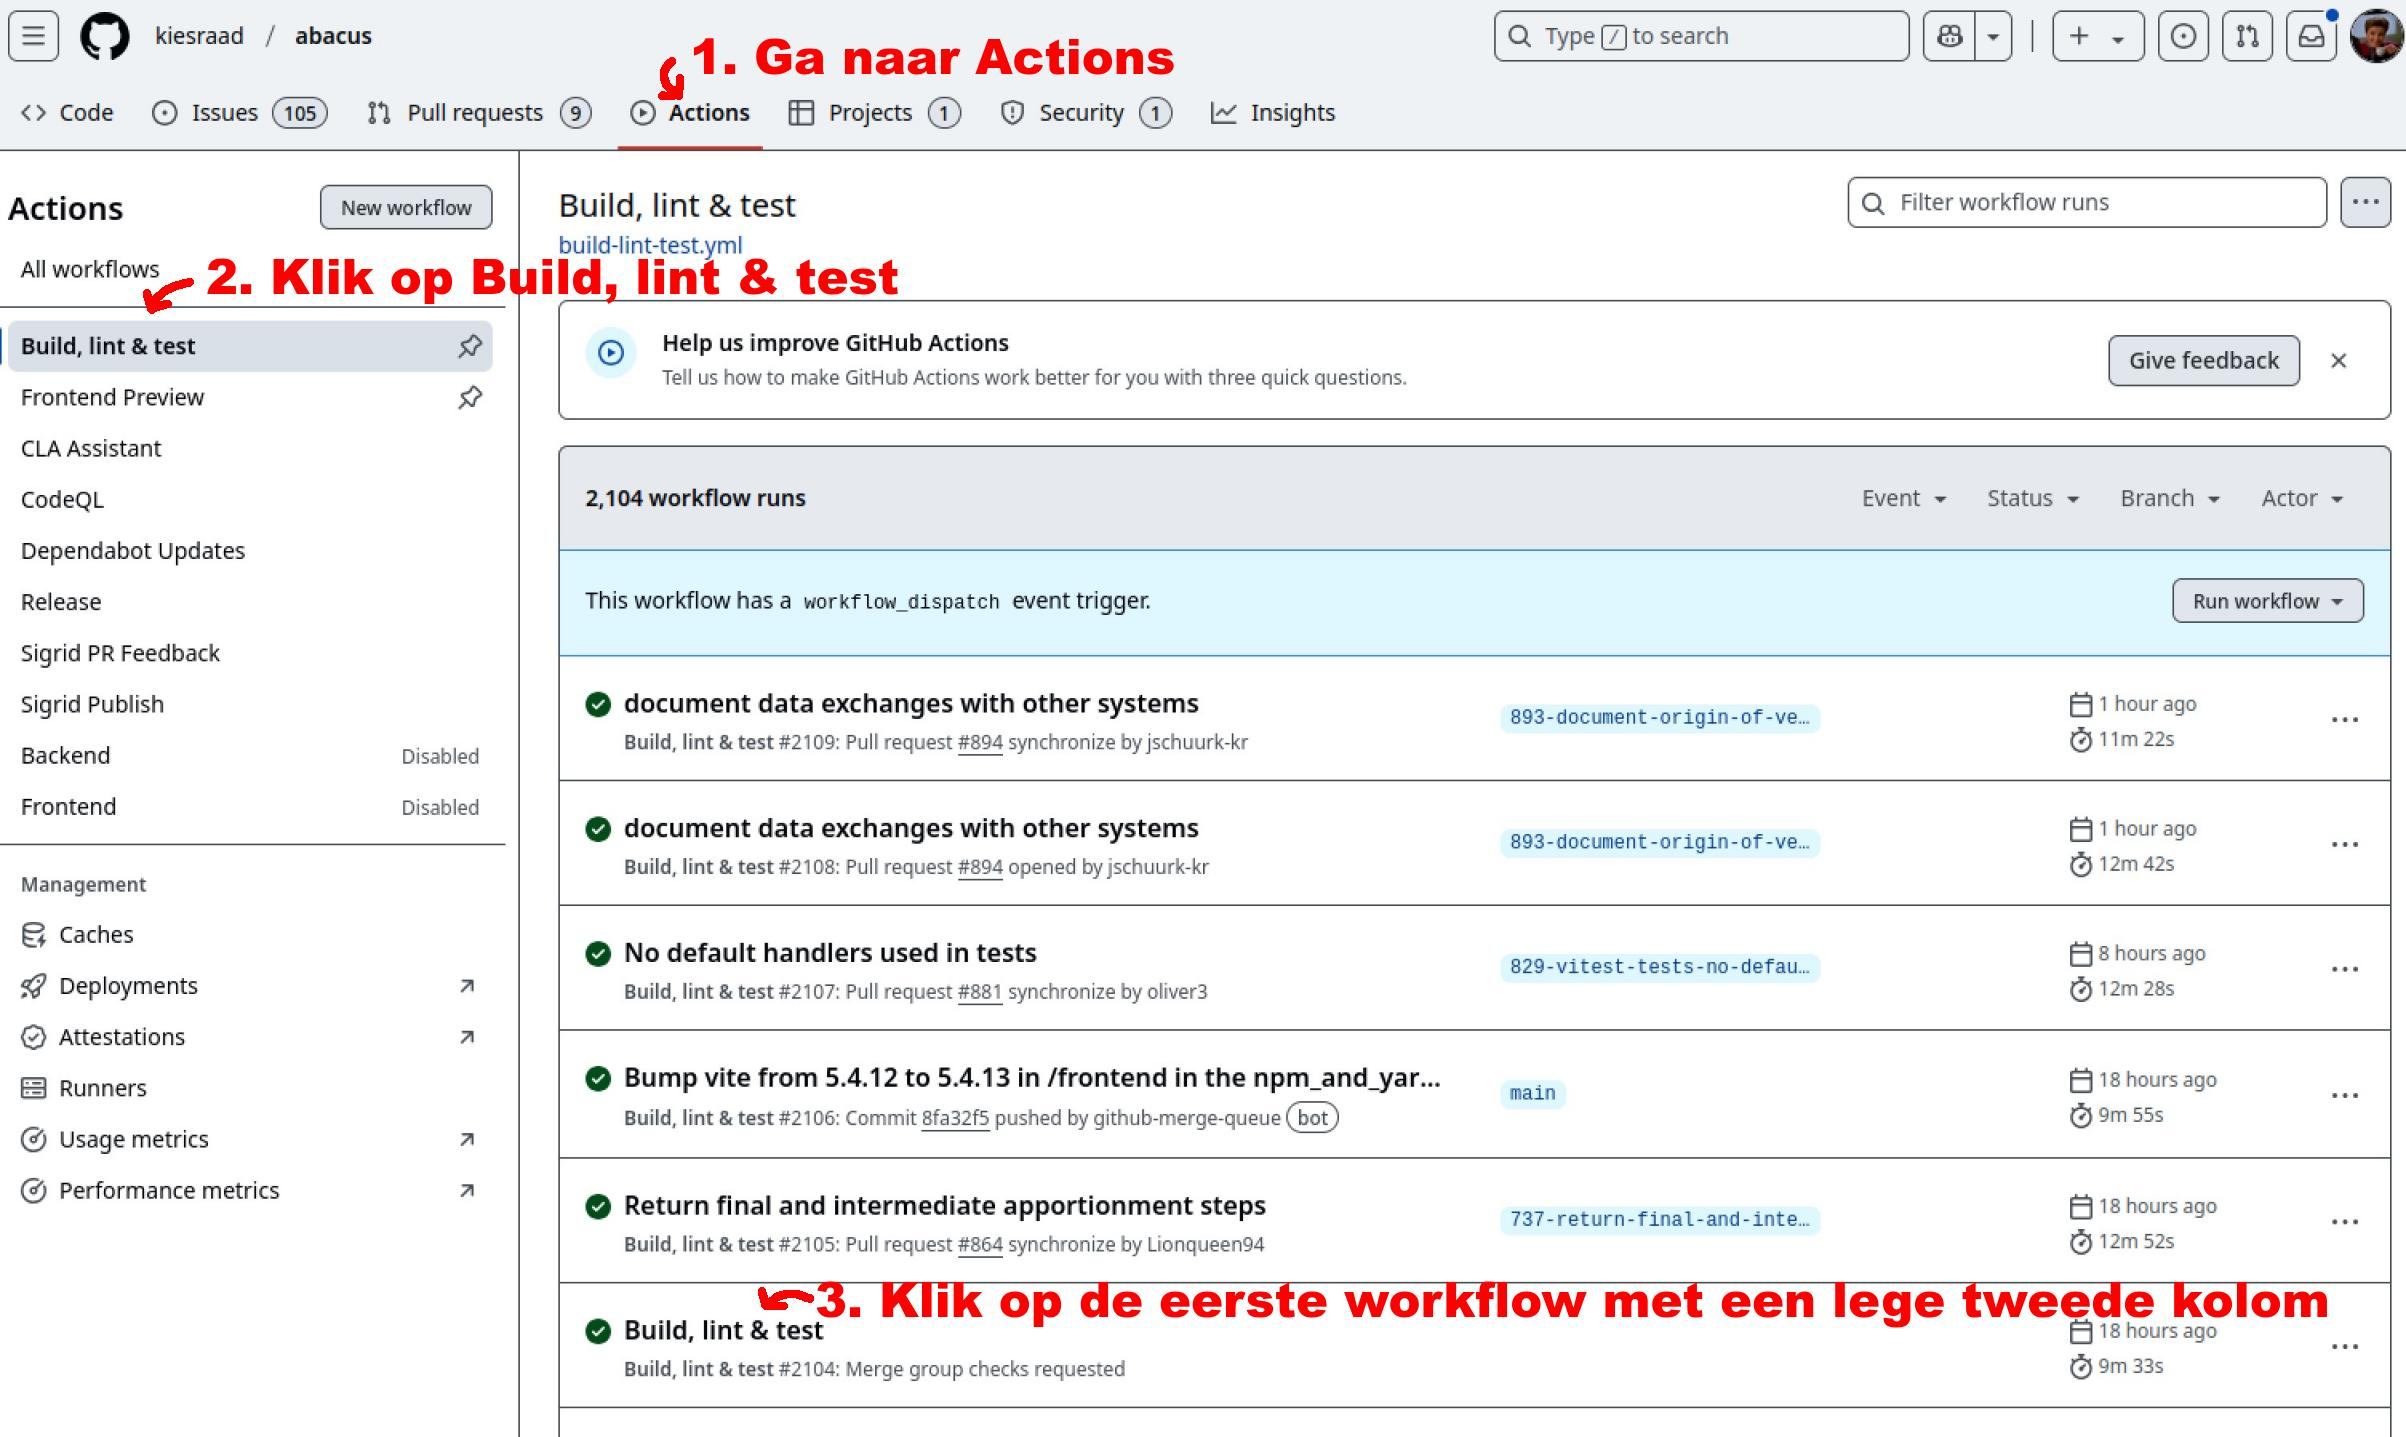
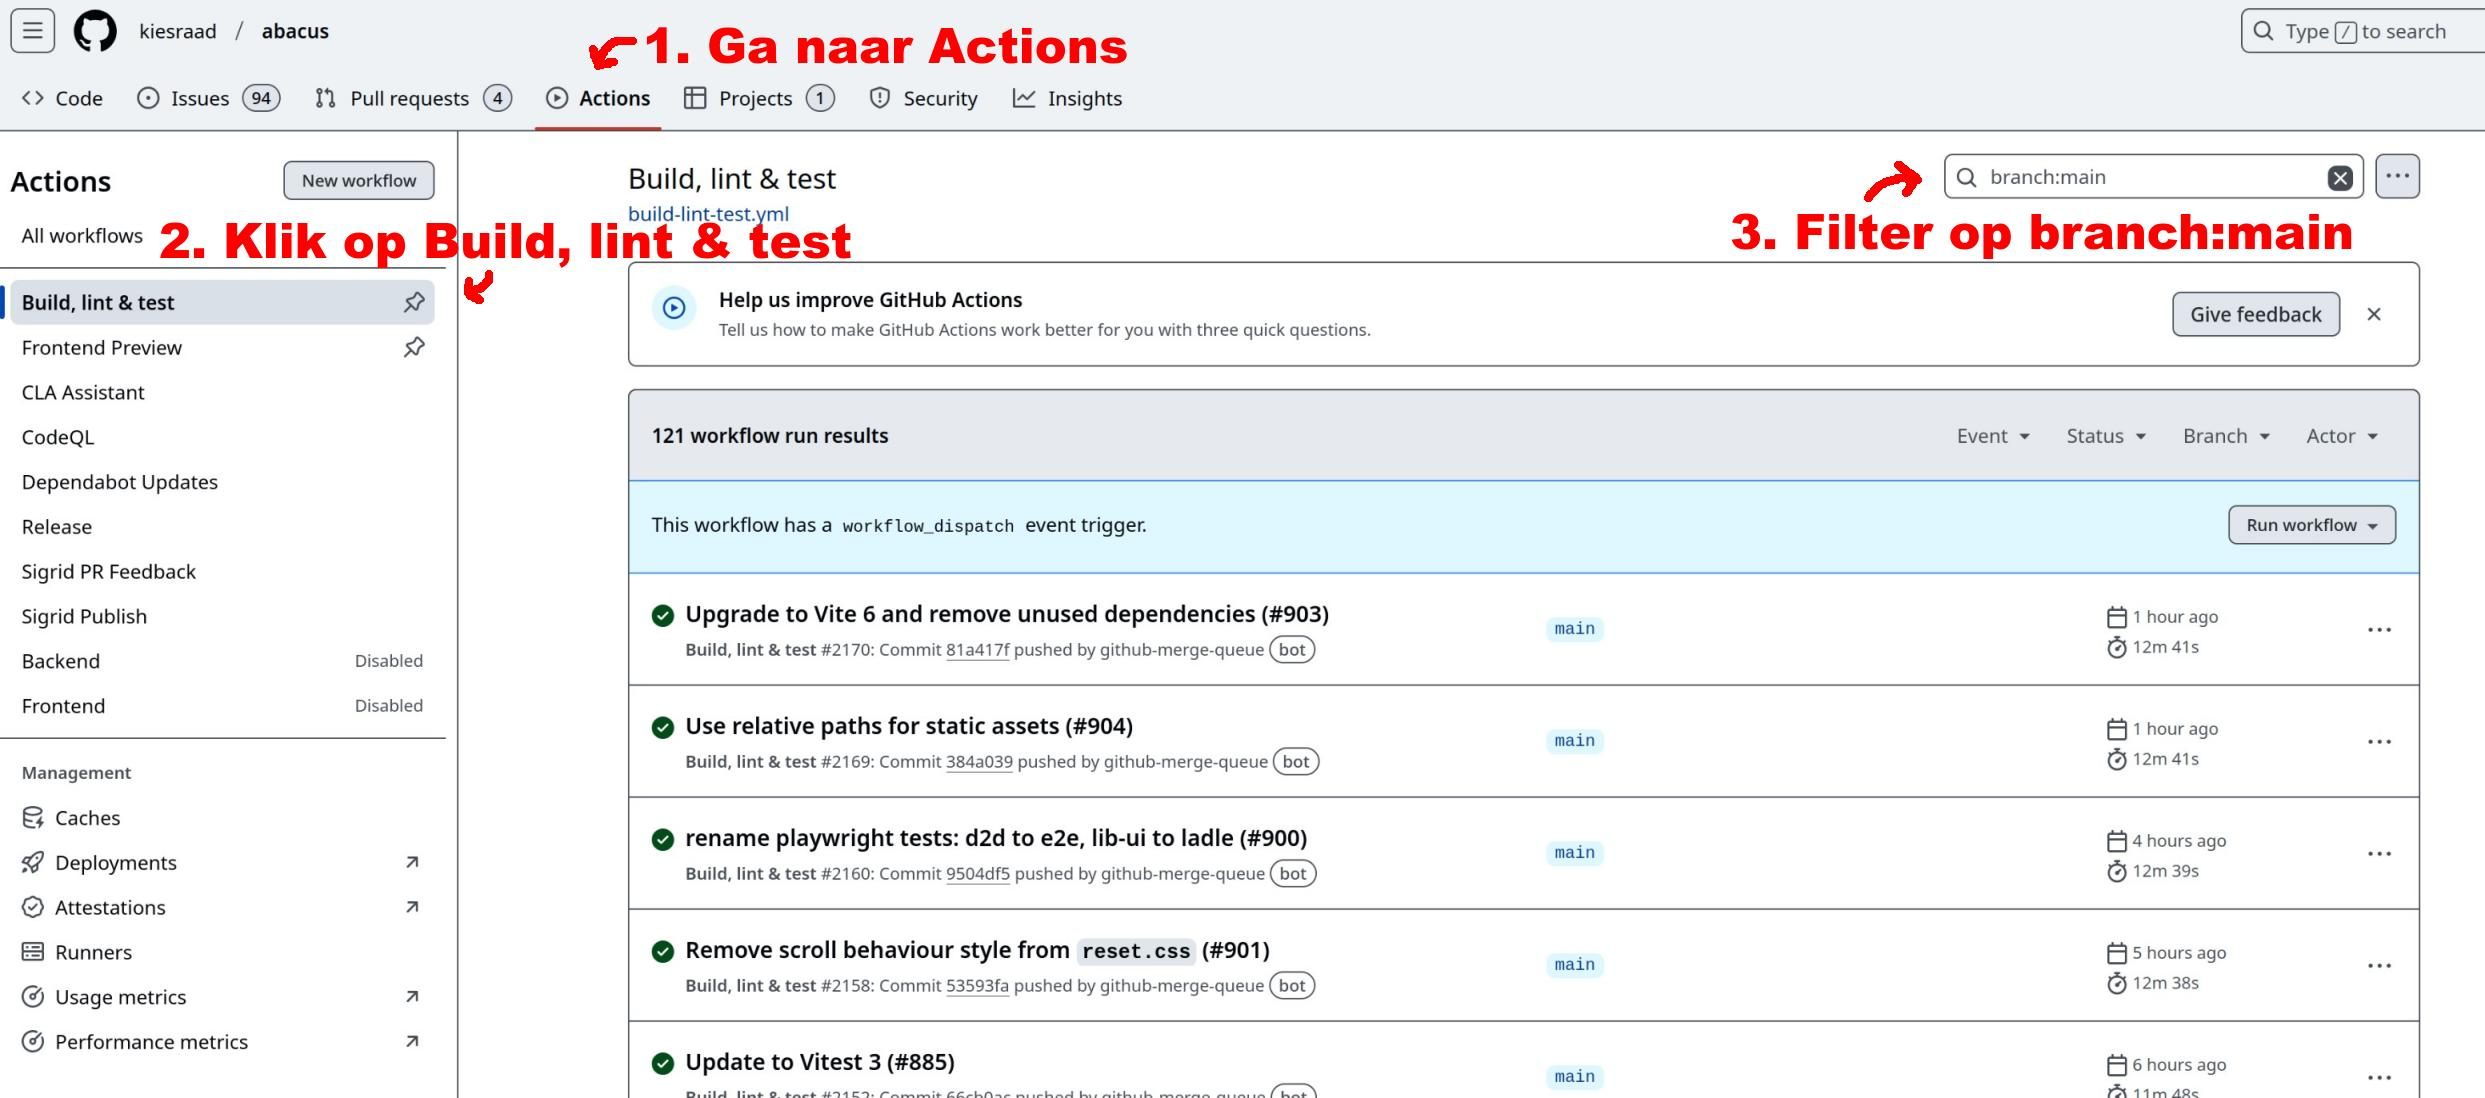
Wijzigingen nav comments
- Uitproberen: 'wekelijkse release-builds' toegevoegd
- Methode 3: Abacus ipv productiebuild
- Instructies branch:main gewijzigd
- Plaatje aangepast
- Opmerking 'starten zonder argumenten' verplaatst

diff --git a/documentatie/gebruikersdocumentatie/installeren-en-starten.md b/documentatie/gebruikersdocumentatie/installeren-en-starten.md
@@ -1,13 +1,13 @@
 # Abacus uitproberen, installeren en starten
 
-Het uitproberen, installeren en starten van Abacus kan op verschillende manieren. Is Abacus nieuw voor je, begin dan bij de optie 'Uitproberen'. Kom je er met de onderstaande instructies niet uit, neem dan contact op met het team via abacus@kiesraad.nl. 
+Het uitproberen, installeren en starten van Abacus kan op verschillende manieren. Is Abacus nieuw voor je, begin dan bij de optie 'Uitproberen'. Kom je er met de onderstaande instructies niet uit, neem dan contact op met het team via <abacus@kiesraad.nl>.
 Hieronder vind je instructies voor de verschillende methodes.
 
 ## Uitproberen
 
 Als je Abacus wilt uitproberen of testen zonder het te installeren, kun je dit doen op <https://abacus-test.nl/>. Hier heb je de volgende opties:
 
-- Maak een nieuwe omgeving aan door bovenaan op `Create new` te klikken.
+- Maak een nieuwe omgeving aan door bovenaan op `Create new` te klikken. Deze omgeving is gebaseerd op onze wekelijkse release-builds.
 - Als je wilt testen hoe de omgeving werkt na de implementatie van een specifieke pull request, klik dan op `Create new` bij de relevante regel onder **Pull requests**.
 - Zoek je naar een bepaalde pull request maar staat die er niet bij, klik dan op `Sync pull requests`. De lijst wordt dan vernieuwd.
 - Bestaande omgevingen staan onder **Running services**. Kies hier een omgeving die al is aangemaakt. Als het nodig is kun je hier een zelf aangemaakte omgeving stoppen.
@@ -29,19 +29,21 @@ Op de hoofdpagina van de Abacus-repository klik je aan de rechterkant op [Releas
 Open een terminal en maak het bestand uitvoerbaar:
 
 ```sh
-chmod +x /path/to/binary/abacus-OS-version
+chmod +x /path/to/binary/abacus-[OS-version]
 ```
 
 Voer Abacus uit:
 
 ```sh
-./path/to/binary/abacus-OS-version --reset-database --seed-data
+./path/to/binary/abacus-[OS-version] --reset-database --seed-data
 ```
 
-De argumenten zorgen ervoor dat de database wordt gereset en wordt geladen met fixtures. De kortere versie van deze opdracht is:
+De argumenten zorgen ervoor dat de database wordt gereset en wordt geladen met fixtures. Het is natuurlijk ook mogelijk om Abacus zonder argumenten te starten, maar als je dat doet bevat de app geen data en zie je op de pagina het bericht *'Verkiezingen niet gevonden'*.
+
+De kortere versie van deze opdracht is:
 
 ```sh
-./path/to/binary/abacus-OS-version -rs
+./path/to/binary/abacus-[OS-version] -rs
 ```
 
 Zie ook de [help](#help).
@@ -51,21 +53,19 @@ Zie ook de [help](#help).
 Open een Command Prompt of Powershell en voer Abacus uit:
 
 ```sh
-start path\to\binary\abacus-windows-version.exe --reset-database --seed-data
+start path\to\binary\abacus-windows-[version].exe --reset-database --seed-data
 ```
 
 Of gebruik de kortere versie van deze opdracht:
 
 ```sh
-start path\to\binary\abacus-windows-version.exe -rs
+start path\to\binary\abacus-windows-[version].exe -rs
 
 ```
 
 Zie ook de [help](#help).
 
 Na het starten zie je een popup van Windows Security over de Windows Firewall. Het maakt niet uit wat je hier selecteert, de omgeving werkt altijd. Klik dus gerust op **Cancel (Annuleren)**.
-
-**Let op:** Het is natuurlijk ook mogelijk om Abacus zonder argumenten te starten, maar als je dat doet bevat de app geen data en zie je op de pagina het bericht *'Verkiezingen niet gevonden'*.
 
 Wanneer Abacus draait, ga je in je browser naar <http://127.0.0.1:8080> om de omgeving te gebruiken.
 
@@ -75,7 +75,7 @@ Je kunt ook zelf een bepaalde build downloaden en starten. Voer hiervoor de volg
 
 1. Ga in de Abacus-repository naar [Actions](https://github.com/kiesraad/abacus/actions).
 2. Klik aan de linkerkant op [Build, lint & test](https://github.com/kiesraad/abacus/actions/workflows/build-lint-test.yml).
-3. Klik op de eerste workflow waarbij de tweede kolom leeg is.
+3. Filter op `branch:main` en klik op de bovenste build in de lijst.
 4. Download de **latest** build voor jouw besturingssysteem. Let op: de download is alleen zichtbaar als je bent ingelogd in GitHub.
 
 ![instructies1](/documentatie/gebruikersdocumentatie/img/build-artifact-1.jpg)
@@ -89,7 +89,9 @@ De download bevat een ZIP-bestand met de binary. Deze binary bevat ook alle fron
 ./path/to/binary/abacus --reset-database --seed-data
 ```
 
-De argumenten zorgen ervoor dat de database wordt gereset en wordt geladen met fixtures. De kortere versie van deze opdracht is:
+De argumenten zorgen ervoor dat de database wordt gereset en wordt geladen met fixtures. Het is natuurlijk ook mogelijk om Abacus zonder argumenten te starten, maar als je dat doet bevat de app geen data en zie je op de pagina het bericht *'Verkiezingen niet gevonden'*.
+
+De kortere versie van deze opdracht is:
 
 ```sh
 ./path/to/binary/abacus -rs
@@ -108,11 +110,10 @@ Of gebruik de kortere versie:
 ```sh
 start path\to\binary\abacus.exe -rs
 ```
+
 Zie ook de [help](#help).
 
 Na het starten zie je een popup van Windows Security over de Windows Firewall. Het maakt niet uit wat je hier selecteert, de omgeving werkt altijd. Klik dus gerust op **Cancel (Annuleren)**.
-
-Het is natuurlijk ook mogelijk om Abacus zonder argumenten te starten, maar als je dat doet bevat de app geen data en zie je op de pagina het bericht *'Verkiezingen niet gevonden'*.
 
 Wanneer Abacus draait, ga je in je browser naar <http://127.0.0.1:8080> om de omgeving te gebruiken.
 
@@ -120,7 +121,7 @@ Wanneer Abacus draait, ga je in je browser naar <http://127.0.0.1:8080> om de om
 
 *Let op: voor deze methode moet je de repository klonen of downloaden.*
 
-Dit is een Bash-script dat is bedoeld om snel een productiebuild te bouwen en starten. Het staat in de hoofdmap van de repository. Het script maakt geen gebruik van Docker, waardoor het wel nodig is om `npm` en `cargo` geïnstalleerd te hebben.
+Dit is een Bash-script dat is bedoeld om snel Abacus te bouwen en starten. Het staat in de hoofdmap van de repository. Het script maakt geen gebruik van Docker, waardoor het wel nodig is om `npm` en `cargo` geïnstalleerd te hebben.
 
 - `npm` is onderdeel van Node.js en dit kun je installeren door de instructies te volgen op de [website van Node.js](https://nodejs.org/en/download/package-manager).
 - `cargo` is onderdeel van Rust en installatie-instructies hiervoor vind je op de [website van Rust](https://www.rust-lang.org/learn/get-started).
@@ -136,7 +137,7 @@ Zo start je de huidige branch:
 En zo start je een specifieke branch:
 
 ```sh
-./pull-and-run name-of-branch
+./pull-and-run [name-of-branch]
 ```
 
 Wanneer Abacus draait, ga je in je browser naar (<http://127.0.0.1:8080>) om de omgeving te gebruiken.
@@ -169,11 +170,11 @@ Ook deze optie is bedoeld voor development.
 Voor meer informatie over de argumenten bekijk je de helpfunctie via de commandline. Op macOS en Linux gebruik je de volgende opdracht:
 
 ```sh
-./path/to/binary/abacus(-OS-version) --help
+./path/to/binary/abacus-[OS-version] --help
 ```
 
 En op Windows:
 
 ```sh
-start path\to\binary\abacus(-windows-version).exe --help
+start path\to\binary\abacus-windows-[version].exe --help
 ```
